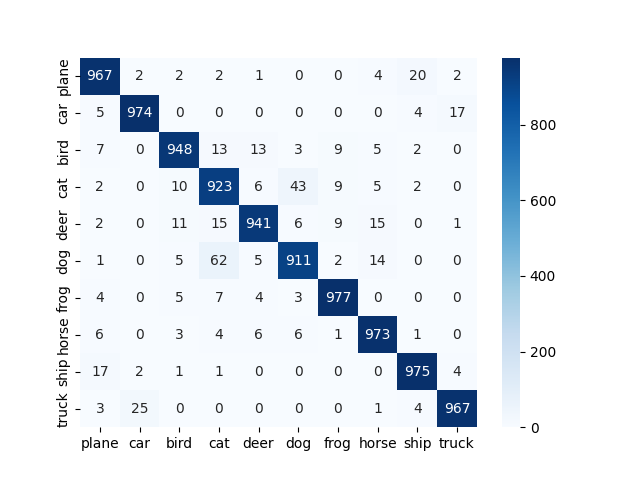
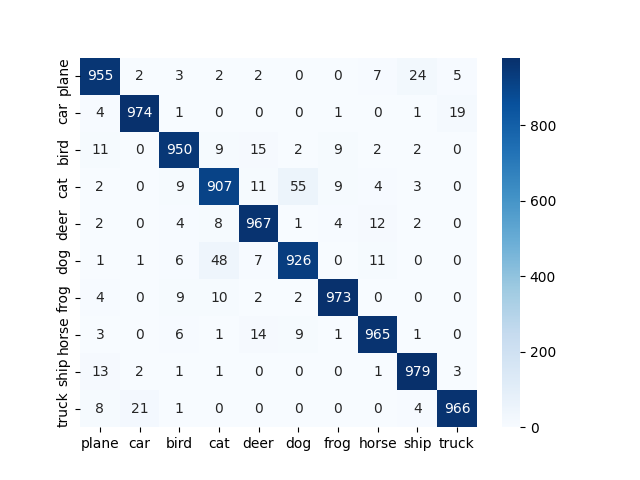
Docs: Update `README.md` with the statistics of the new student model

diff --git a/README.md b/README.md
@@ -1,6 +1,6 @@
 # Teacher Student Model From Scratch
 ## Introduction
-The goal of knowledge distillation is **to maintain the accuracy of the teacher model while reducing the computational cost of the student model.** In this project, I implement a vanilla knowledge distillation using basic teacher-student model from scratch trained on CIFAR10 using Pytorch. The teacher model is based on ResNet50. The student model is a model with 5 layers of CNN and 1 layer of fully connected layer.
+The goal of knowledge distillation is **to maintain the accuracy of the teacher model while reducing the computational cost of the student model.** In this project, I implement a vanilla knowledge distillation using basic teacher-student model from scratch trained on CIFAR10 using Pytorch. The teacher model is based on ResNet50, and the student model is based on ResNet18.
 
 The teacher-student model is trained with knowledge distillation. The loss function is a combination of cross entropy loss and knowledge distillation loss. The cross entropy loss is used to calculate the loss between the output of the student model and the ground truth. For more details, please refer to this [website](https://intellabs.github.io/distiller/knowledge_distillation.html).
 
@@ -11,6 +11,7 @@ The teacher-student model is trained with knowledge distillation. The loss funct
 - CUDA 11.7
 
 ## Organization
+
 ```
 .
 ├── checkpoints
@@ -35,34 +36,40 @@ The teacher-student model is trained with knowledge distillation. The loss funct
 CIFAR10 dataset is used in this project. The dataset is automatically downloaded by Pytorch. The training set contains 50000 images and the test set contains 10000 images. The original image shape is `(3, 32, 32)`, but I resize the image to `(3, 224, 224)` to fit the input shape of ResNet50. And also normalize the image with mean `(0.485, 0.456, 0.406)` and standard deviation `(0.229, 0.224, 0.225)`.
 
 ## Training Setup
-<table align="center" border="1" style="text-align:center">
+
+<table align="center" style="text-align:center">
   <tr>
     <th style="text-align:center;"><b></b></th>
-    <th style="text-align:center;"><b>Teacher model</b></th>
-    <th style="text-align:center;"><b>Student model</b></th>
+    <th style="text-align:center;"><b>Teacher (ResNet50)</b></th>
+    <th style="text-align:center;"><b>Student (ResNet18 without KD)</b></th>
+    <th style="text-align:center;"><b>Student (ResNet18 with KD)</b></th>
   </tr>
   <tr>
     <th>Batch Size</th>
+    <td>100</td>
     <td>100</td>
     <td>100</td>
   </tr>
   <tr>
     <th>Epochs</th>
     <td>5</td>
+    <td>5</td>
     <td>10</td>
   </tr>
   <tr>
     <th>Optimizer</th>
-    <td colspan="2">SGD with learning rate 0.001, momentum 0.9</td>
+    <td colspan="3">SGD with learning rate 0.001, momentum 0.9</td>
   </tr>
   <tr>
     <th>Loss Function</th>
     <td>Cross Entropy Loss</td>
-    <td>Knowledge Distillation Loss with alpha 0.5 and temperature 1</td>
+    <td>Cross Entropy Loss</td>
+    <td>KD Loss with alpha 0.25 and temperature 5</td>
   </tr>
 </table>
 
 ## How to run it?
+
 1. Clone this repository
 
     ```
@@ -88,83 +95,83 @@ CIFAR10 dataset is used in this project. The dataset is automatically downloaded
     ```
 
 ## Results
-- Comparison of accuracy between teacher and student model
+- Comparison of accuracy between teacher, student and student without knowledge distillation.
 
-<table width="50%" align="center" border="1" style="text-align:center">
-  <caption><b>Accuracy for both teacher and student model</b></caption>
-  <tr>
-    <th style="text-align:center;">Class</th>
-    <th style="text-align:center;">Teacher</th>
-    <th style="text-align:center;">Student</th>
-    <th style="text-align:center;">Basic CNN</th>
-  </tr>
-  <tr>
-    <td>plane</td>
-    <td>96.8 %</td>
-    <td>68.2 %</td>
-    <td>78.1 %</td>
-  </tr>
-  <tr>
-    <td>car</td>
-    <td>97.1 %</td>
-    <td>84.2 %</td>
-    <td>75.9 %</td>
-  </tr>
-  <tr>
-    <td>bird</td>
-    <td>96.4 %</td>
-    <td>49.8 %</td>
-    <td>52.2 %</td>
-  </tr>
-  <tr>
-    <td>cat</td>
-    <td>92.0 %</td>
-    <td>45.5 %</td>
-    <td>42.6 %</td>
-  </tr>
-  <tr>
-    <td>deer</td>
-    <td>95.3 %</td>
-    <td>63.4 %</td>
-    <td>58.9 %</td>
-  </tr>
-  <tr>
-    <td>dog</td>
-    <td>92.3 %</td>
-    <td>49.2 %</td>
-    <td>65.4 %</td>
-  </tr>
-  <tr>
-    <td>frog</td>
-    <td>98.1 %</td>
-    <td>86.0 %</td>
-    <td>80.9 %</td>
-  </tr>
-  <tr>
-    <td>horse</td>
-    <td>97.8 %</td>
-    <td>75.1 %</td>
-    <td>67.7 %</td>
-  </tr>
-  <tr>
-    <td>ship</td>
-    <td>98.3 %</td>
-    <td>77.2 %</td>
-    <td>77.1 %</td>
-  </tr>
-  <tr>
-    <td>truck</td>
-    <td>97.2 %</td>
-    <td>78.2 %</td>
-    <td>75.9 %</td>
-  </tr>
-  <tr>
-    <td>Overall</td>
-    <td>96.1 %</td>
-    <td>67.7 %</td>
-    <td>67.5 %</td>
-  </tr>
-</table>
+  <table width="50%" align="center" style="text-align:center">
+    <caption><b>Accuracy for both teacher and student model</b></caption>
+    <tr>
+      <th style="text-align:center;">Class</th>
+      <th style="text-align:center;">Teacher (ResNet50)</th>
+      <th style="text-align:center;">Student (ResNet18 with KD)</th>
+      <th style="text-align:center;">Student (ResNet18 without KD)</th>
+    </tr>
+    <tr>
+      <td>plane</td>
+      <td>96.1 %</td>
+      <td>95.6 %</td>
+      <td>95.7 %</td>
+    </tr>
+    <tr>
+      <td>car</td>
+      <td>97.0 %</td>
+      <td>97.7 %</td>
+      <td>96.6 %</td>
+    </tr>
+    <tr>
+      <td>bird</td>
+      <td>95.4 %</td>
+      <td>93.2 %</td>
+      <td>93.2 %</td>
+    </tr>
+    <tr>
+      <td>cat</td>
+      <td>91.2 %</td>
+      <td>87.7 %</td>
+      <td>86.8 %</td>
+    </tr>
+    <tr>
+      <td>deer</td>
+      <td>95.5 %</td>
+      <td>94.0 %</td>
+      <td>93.6 %</td>
+    </tr>
+    <tr>
+      <td>dog</td>
+      <td>91.9 %</td>
+      <td>89.9 %</td>
+      <td>92.1 %</td>
+    </tr>
+    <tr>
+      <td>frog</td>
+      <td>97.6 %</td>
+      <td>96.7 %</td>
+      <td>96.6 %</td>
+    </tr>
+    <tr>
+      <td>horse</td>
+      <td>95.5 %</td>
+      <td>95.4 %</td>
+      <td>95.6 %</td>
+    </tr>
+    <tr>
+      <td>ship</td>
+      <td>97.4 %</td>
+      <td>96.0 %</td>
+      <td>95.1 %</td>
+    </tr>
+    <tr>
+      <td>truck</td>
+      <td>96.2 %</td>
+      <td>95.8 %</td>
+      <td>95.3 %</td>
+    </tr>
+    <tr>
+      <td>Overall</td>
+      <td>95.4 %</td>
+      <td>94.2 %</td>
+      <td>94.1 %</td>
+    </tr>
+  </table>
 
 
 - Comparison of statistics between teacher and student model
@@ -174,29 +181,34 @@ CIFAR10 dataset is used in this project. The dataset is automatically downloaded
         <td colspan="2" style="text-align:center; font-size:14px;"><b>Confusion Matrix<b></td>
     </tr>
     <tr>
-        <td width="33%" style="text-align:center;font-size:14px;"><b>Teacher<b></td>
-        <td width="33%" style="text-align:center;font-size:14px;"><b>Student<b></td>
-        <td width="33%" style="text-align:center;font-size:14px;"><b>Basic CNN<b></td>
+        <td width="33%" style="text-align:center;font-size:14px;"><b>Teacher (ResNet50)<b></td>
+        <td width="33%" style="text-align:center;font-size:14px;"><b>Student (ResNet18 with KD)<b></td>
+        <td width="33%" style="text-align:center;font-size:14px;"><b>Student (ResNet18 without KD)<b></td>
     </tr>
     <tr>
-        <td><img src="imgs/custom_resnet50/confusion_matrix.png"></img></td>
+        <td><img src="imgs/teacher/confusion_matrix.png"></img></td>
         <td><img src="imgs/student/confusion_matrix.png"></img></td>
-        <td><img src="imgs/basic_cnn/confusion_matrix.png"></img></td>
+        <td><img src="imgs/custom_resnet18/confusion_matrix.png"></img></td>
     </tr>
     <tr>
         <td colspan="2" style="text-align:center; font-size:14px;"><b>Classification Report<b></td>
     </tr>
     <tr>
-        <td width="33%" style="text-align:center;font-size:14px;"><b>Teacher<b></td>
-        <td width="33%" style="text-align:center;font-size:14px;"><b>Student<b></td>
-        <td width="33%" style="text-align:center;font-size:14px;"><b>Basic CNN<b></td>
+        <td width="33%" style="text-align:center;font-size:14px;"><b>Teacher (ResNet50)<b></td>
+        <td width="33%" style="text-align:center;font-size:14px;"><b>Student (ResNet18 with KD)<b></td>
+        <td width="33%" style="text-align:center;font-size:14px;"><b>Student (ResNet18 without KD)<b></td>
     </tr>
     <tr>
-        <td><img src="imgs/custom_resnet50/classification_report.png"></img></td>
+        <td><img src="imgs/teacher/classification_report.png"></img></td>
         <td><img src="imgs/student/classification_report.png"></img></td>
-        <td><img src="imgs/basic_cnn/classification_report.png"></img></td>
+        <td><img src="imgs/custom_resnet18/classification_report.png"></img></td>
     </tr>
   </table>
 
+The result of the student model with knowledge distillation is **"slightly"** better than the student model without knowledge distillation. But just slightly, it can almost be ignored. I'm wondering if I did something wrong. If you know what's wrong, please let me know. Thank you.
 
-The above teacher model results are actully generated by the `custom_resnet50.py`. It's a little bit weird that the training result of the teacher model is great (about 96% accuracy), but when I tring to manully evaluate it by using `evaluate.py`, it only gets 10% accuracy. I'm still trying to figure out what's going on.
+## References
+- [Knowledge Distillation](https://intellabs.github.io/distiller/knowledge_distillation.html)
+- [Implementation of Teacher-Student Model in PyTorch](https://abdulkaderhelwan.medium.com/implementation-of-teacher-student-model-in-pytorch-a1195734dd08)
+- [Knowledge Distillation in a Deep Neural Network](https://medium.com/analytics-vidhya/knowledge-distillation-in-a-deep-neural-network-c9dd59aff89b)
+- [Maximizing Model Performance with Knowledge Distillation in PyTorch](https://medium.com/artificialis/maximizing-model-performance-with-knowledge-distillation-in-pytorch-12b3960a486a)
